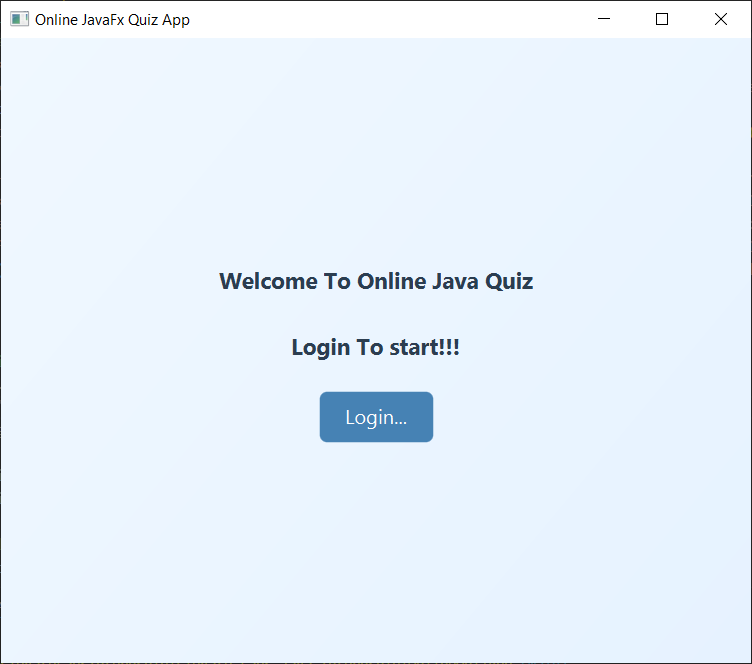
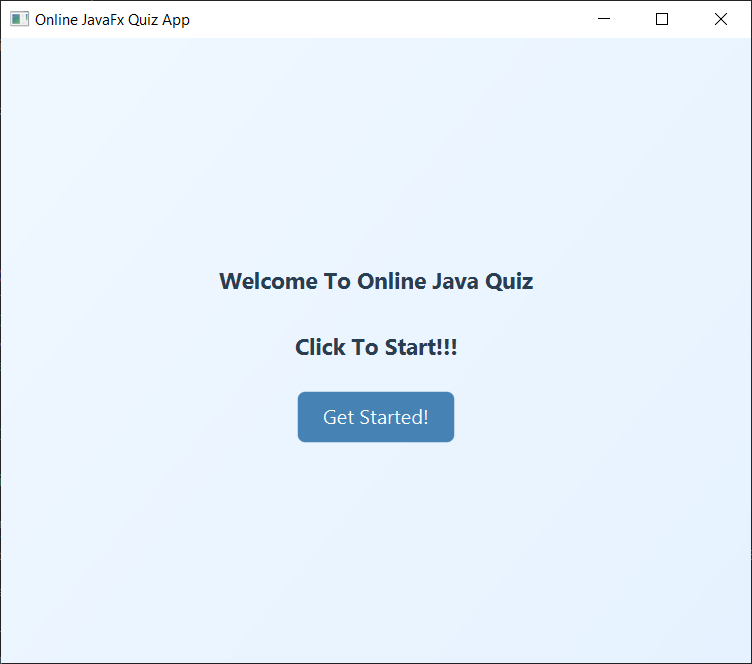
README.md Updated

diff --git a/OnlineQuizApp/src/App.java b/OnlineQuizApp/src/App.java
@@ -52,7 +52,7 @@ public class App extends Application {
     private void showPage1() {
         Label welcomeMsg = new Label("Welcome To Online Java Quiz");
         welcomeMsg.getStyleClass().add("label");
-        Label LoginMsg = new Label("Click To start!!!");
+        Label LoginMsg = new Label("Click To Start!!!");
         LoginMsg.getStyleClass().add("label");
 
         Button getStarted = new Button("Get Started!");
